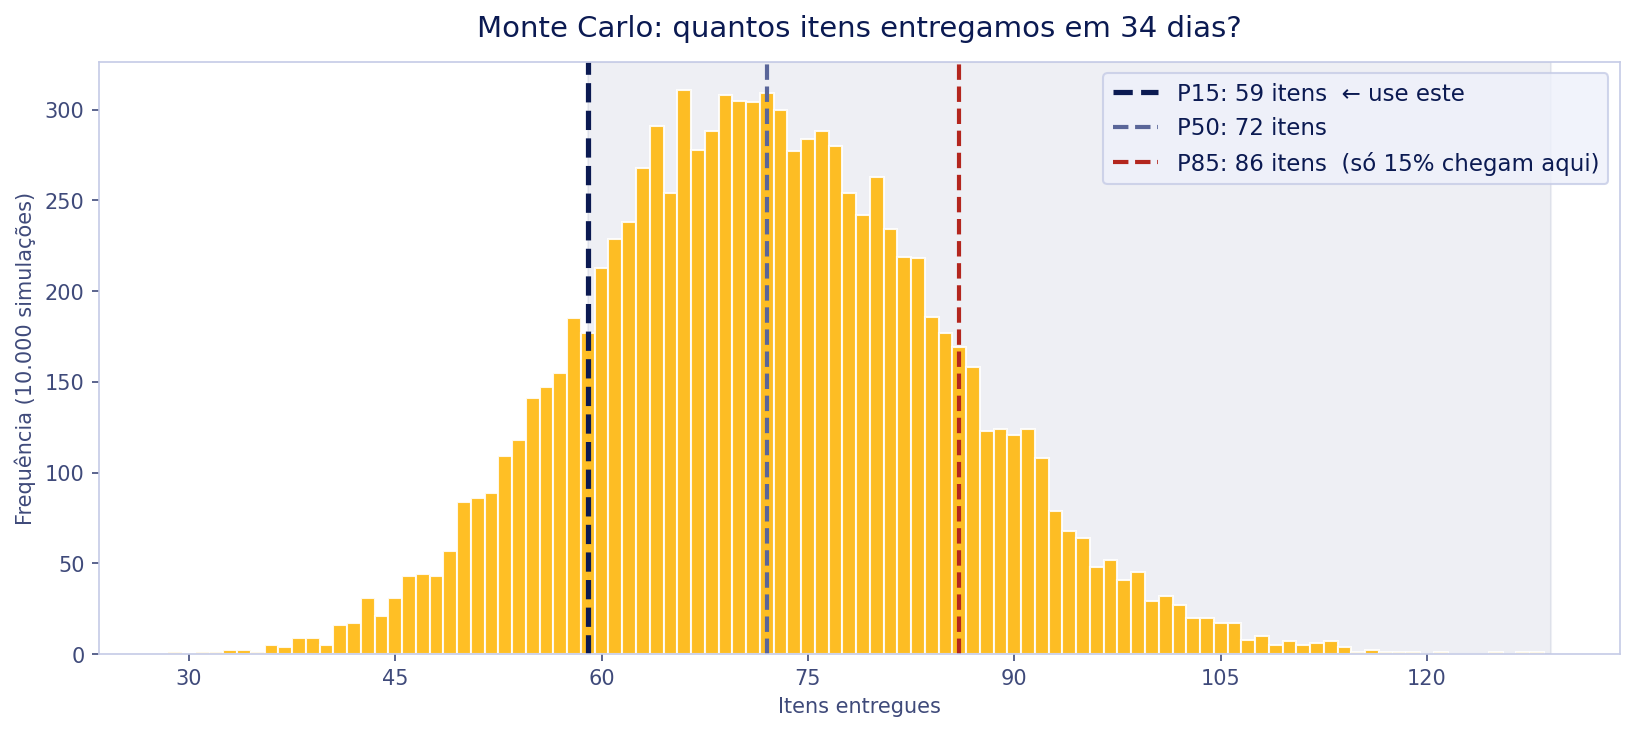
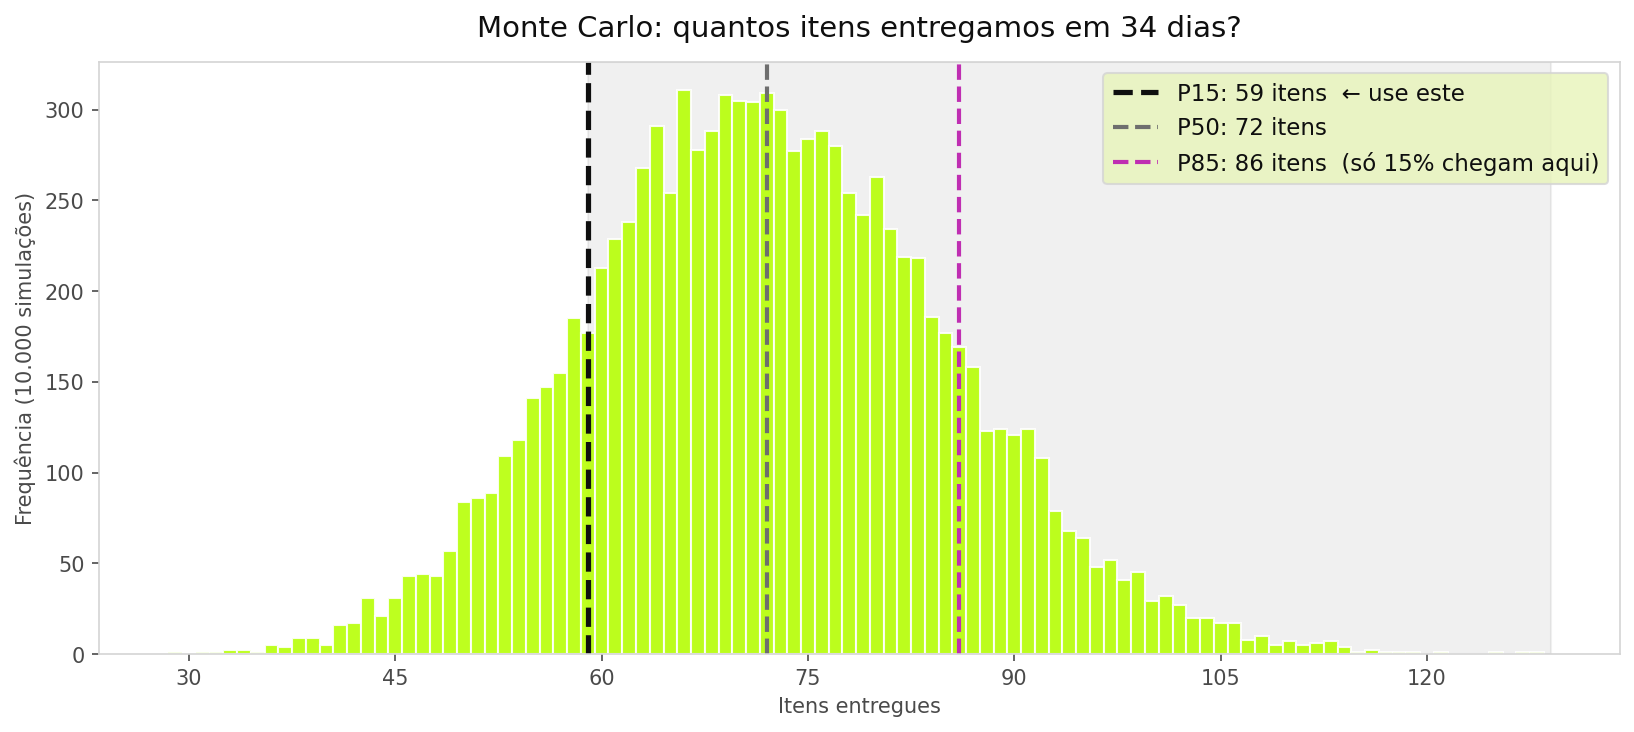
feat(charts): repaint the charts in Python Brasil 2026 colors

diff --git a/generate_charts.py b/generate_charts.py
@@ -19,21 +19,22 @@ OUTPUT_DIR = Path("slides/public")
 OUTPUT_DIR.mkdir(parents=True, exist_ok=True)
 DATA_FILE = Path("data/lead_time_data_clean_2026.csv")
 
-# Paleta Python Floripa: azul-marinho e laranja, as cores de slides/brands/python-floripa.
+# Paleta Python Brasil 2026: preto, off-white, verde limão e violeta, as cores de
+# slides/brands/python-brasil.
 #
-# O laranja #ffb80d mede 1.8:1 no branco, entao entra so como preenchimento
-# (barras e pontos), sempre com contorno azul-marinho. Linhas e texto usam os
-# azuis, e o linestyle ("--", ":", "-") separa os percentis.
+# O limão #b7ff06 mede 1.2:1 no branco, entao entra so como preenchimento
+# (barras e pontos), sempre com contorno preto. Linhas e texto usam o preto, o
+# cinza e o violeta, e o linestyle ("--", ":", "-") separa os percentis.
 BG = "#ffffff"
-BG2 = "#eef1fb"  # --card da marca
-SURFACE = "#eef1fb"
-TEXT = "#0b1a52"  # --text da marca, azul-marinho
-TEXT_MUTED = "#3f4a7a"  # --muted da marca
-GRID = "#c5cbe6"  # --card-line da marca
-GREEN = "#5a6699"  # P50, azul acinzentado
-RED = "#b3261e"  # usado so no P95
-MAIN = "#0b1a52"  # P85, azul-marinho
-MC_BAR = "#ffb80d"  # laranja da marca, so como preenchimento
+BG2 = "#e8f4ba"  # off-white da marca
+SURFACE = "#e8f4ba"
+TEXT = "#0f0f0f"  # preto da marca
+TEXT_MUTED = "#4a4a4a"
+GRID = "#d4d4d4"
+GREEN = "#6e6e6e"  # P50, cinza
+RED = "#bf2eb2"  # violeta da marca, usado so no P95
+MAIN = "#0f0f0f"  # P85, preto
+MC_BAR = "#b7ff06"  # limão da marca, so como preenchimento
 
 
 def load_data(clean_cycle_time: bool = True) -> pd.DataFrame:
